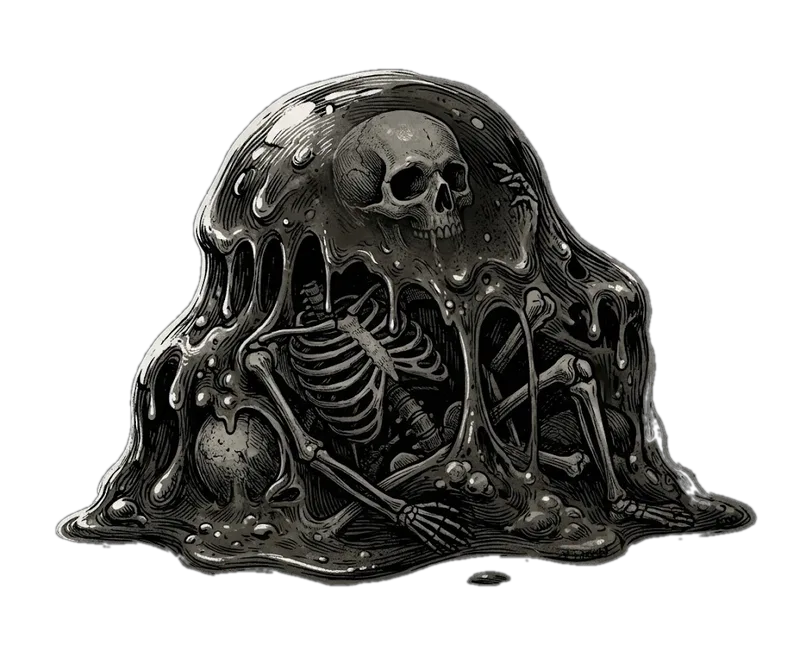
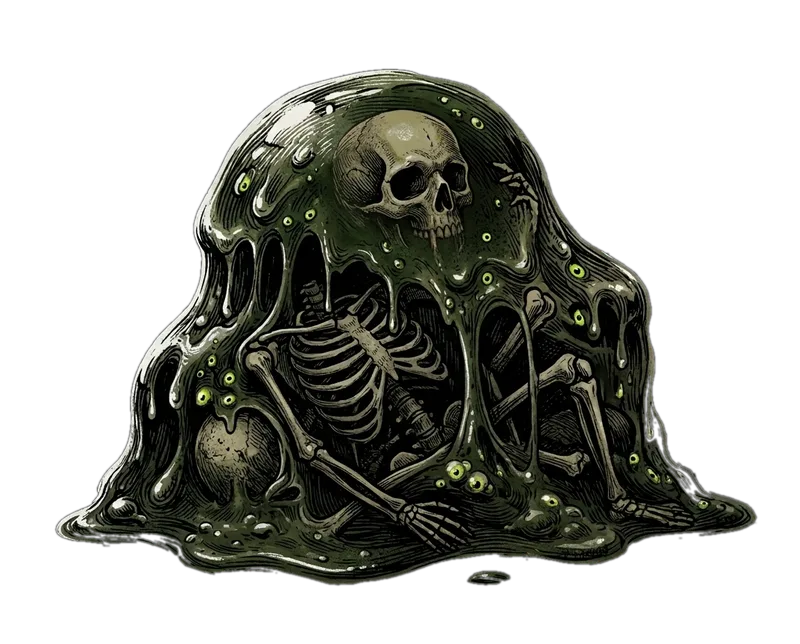
Replace the slime art with the colored version from Google Drive
Claude-Session: https://claude.ai/code/session_01Ca5vBVqYvXdambT4xa3ouu

diff --git a/README.md b/README.md
@@ -241,7 +241,7 @@ bus.on('onBlockGained', (p) => ({ ...p, amount: p.amount + 3 }));               
 
 ## 敵の絵
 
-- 敵の絵は、**生成 AI（Google Gemini）で描いた画像**に順に置き換えている（いまはスライム）。まだ届いていない敵は、手書きの SVG（`src/ui/components/enemySprites.ts`）のまま。
+- 敵の絵は、**生成 AI（Google Gemini）で描いた画像**（ペン画・銅版画の線に、暗い色を付けた画風）に順に置き換えている（いまはスライム）。プロンプトは `docs/enemy-art-prompts.md`。まだ届いていない敵は、手書きの SVG（`src/ui/components/enemySprites.ts`）のまま。
 - 画像は `src/ui/art/enemies/<敵の ID>.webp`。届いた画像は `python3 tools/enemy-art.py <元の画像> <敵の ID>` で、外側の黒い背景を透明にして、横 800 ピクセルの WebP にする。そのあと `src/ui/components/enemyArt.ts` の `ENEMY_IMAGES` に足すと、戦闘・マップ・敵の詳細・図鑑に出る。
 - 画像はアプリに入れて配信し、Service Worker の precache にも入る（オフラインでも出る）。
 
